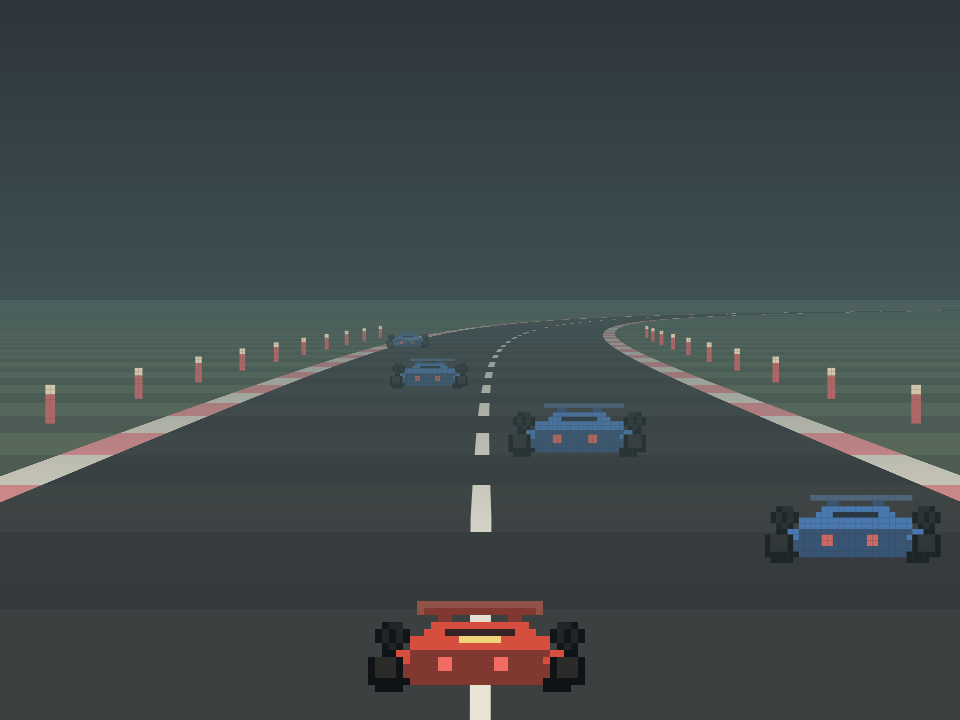
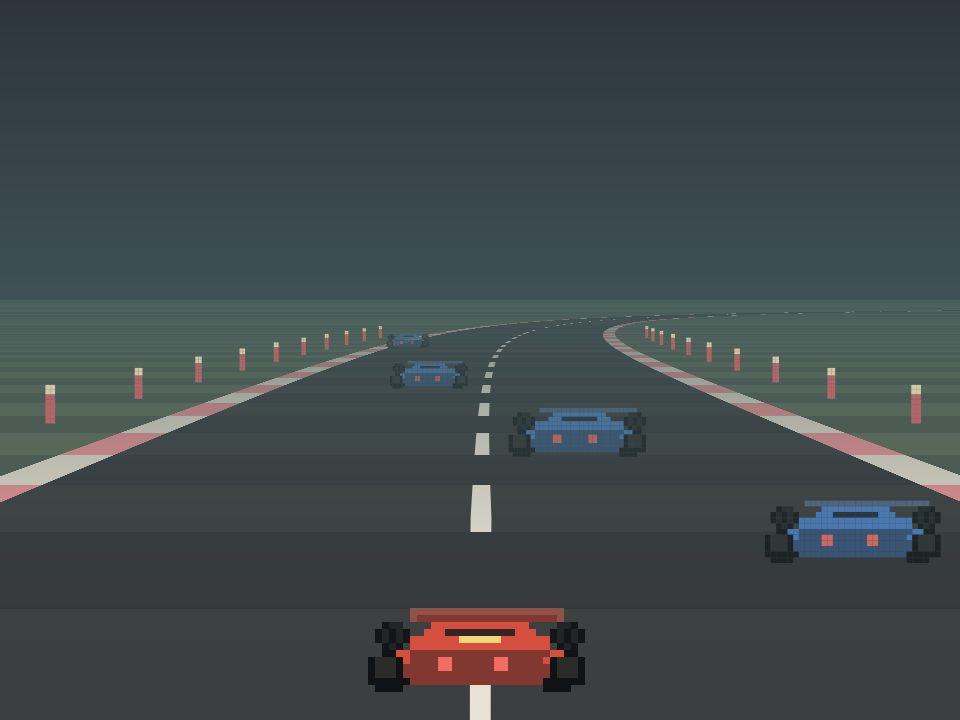
Racer: a sprite playground, and the wing finally reads right
The wing has now been wrong four times, and Brian's close-up of the
reference shows why every attempt failed the same way: in the original
there is NOTHING above the wing. It is the top edge of the sprite, and
the body rises to meet it. Every version I drew had body rows sitting
under a bar, which is the exact arrangement the eye reads as a roof —
whether the gap under it was four rows or one.

So the fix was not the gap size, it was what sits above. Removing the
rows above the wing is what turned a greenhouse into a rear wing.

Also adds tools/sprite-playground.html, Brian's idea and a good one: a
browser grid editor with the same palette letters art.rs uses, that emits
a paste-ready Rust block and can load one back. Pointing at a pixel beats
describing it — four rounds of "move the wing down" would have been one
round of moving it.

Open it directly, no server needed:
  xdg-open tools/sprite-playground.html

Claude-Session: https://claude.ai/code/session_01R6n3USUuEdve3pENT6DRo3

diff --git a/tools/sprite-playground.html b/tools/sprite-playground.html
@@ -1,0 +1,338 @@
+<title>Omarcade Sprite Playground</title>
+<style>
+  :root {
+    --bg: #1e2326; --panel: #272e33; --edge: #3a4248;
+    --fg: #d3c6aa; --muted: #859289; --accent: #83c092;
+    --warn: #e67e80;
+  }
+  * { box-sizing: border-box; }
+  body {
+    margin: 0; background: var(--bg); color: var(--fg);
+    font: 14px/1.5 ui-monospace, "SF Mono", Menlo, Consolas, monospace;
+  }
+  header {
+    padding: 14px 20px; border-bottom: 1px solid var(--edge);
+    display: flex; align-items: baseline; gap: 16px; flex-wrap: wrap;
+  }
+  h1 { font-size: 15px; margin: 0; font-weight: 600; letter-spacing: .04em; }
+  header p { margin: 0; color: var(--muted); font-size: 12px; }
+  main {
+    display: grid; grid-template-columns: minmax(0,1fr) 320px;
+    gap: 20px; padding: 20px; align-items: start;
+  }
+  @media (max-width: 900px) { main { grid-template-columns: 1fr; } }
+  .panel {
+    background: var(--panel); border: 1px solid var(--edge);
+    border-radius: 8px; padding: 16px;
+  }
+  .panel h2 {
+    font-size: 12px; margin: 0 0 12px; color: var(--muted);
+    text-transform: uppercase; letter-spacing: .08em; font-weight: 600;
+  }
+  #gridwrap { overflow: auto; }
+  canvas { image-rendering: pixelated; display: block; cursor: crosshair; }
+  #preview { background: #10141f; border-radius: 6px; margin-bottom: 4px; }
+  .swatches { display: flex; flex-wrap: wrap; gap: 6px; }
+  .sw {
+    display: flex; align-items: center; gap: 6px; padding: 5px 9px;
+    border: 1px solid var(--edge); border-radius: 5px; cursor: pointer;
+    background: #1e2326; font-size: 12px; color: var(--fg);
+  }
+  .sw:hover { border-color: var(--muted); }
+  .sw.on { border-color: var(--accent); background: #2d3b33; }
+  .chip {
+    width: 14px; height: 14px; border-radius: 3px;
+    border: 1px solid rgba(255,255,255,.15);
+  }
+  .row { display: flex; gap: 8px; flex-wrap: wrap; margin-top: 10px; }
+  button {
+    font: inherit; font-size: 12px; padding: 7px 12px; cursor: pointer;
+    background: #1e2326; color: var(--fg);
+    border: 1px solid var(--edge); border-radius: 5px;
+  }
+  button:hover { border-color: var(--accent); color: var(--accent); }
+  textarea {
+    width: 100%; min-height: 300px; background: #10141f; color: var(--fg);
+    border: 1px solid var(--edge); border-radius: 6px; padding: 10px;
+    font: 12px/1.35 ui-monospace, Menlo, Consolas, monospace;
+    white-space: pre; overflow-wrap: normal; overflow-x: auto; resize: vertical;
+  }
+  .hint { color: var(--muted); font-size: 12px; margin: 8px 0 0; }
+  .warn { color: var(--warn); }
+  kbd {
+    background: #1e2326; border: 1px solid var(--edge); border-bottom-width: 2px;
+    border-radius: 4px; padding: 1px 5px; font-size: 11px;
+  }
+</style>
+
+<header>
+  <h1>Omarcade Sprite Playground</h1>
+  <p>Paint pixels &rarr; copy the Rust back into <code>art.rs</code>. Drag to draw, right-click erases.</p>
+</header>
+
+<main>
+  <div class="panel">
+    <h2>Canvas</h2>
+    <div id="gridwrap"><canvas id="grid"></canvas></div>
+    <p class="hint">
+      <kbd>drag</kbd> paint &nbsp; <kbd>right-drag</kbd> erase &nbsp;
+      <kbd>alt+click</kbd> pick colour &nbsp; <kbd>ctrl+z</kbd> undo
+    </p>
+  </div>
+
+  <div>
+    <div class="panel">
+      <h2>Preview</h2>
+      <canvas id="preview" width="288" height="180"></canvas>
+      <p class="hint">Actual size, 2x, 4x &mdash; how it reads at distance.</p>
+    </div>
+
+    <div class="panel" style="margin-top:16px">
+      <h2>Palette</h2>
+      <div class="swatches" id="swatches"></div>
+      <p class="hint">Same letters <code>art.rs</code> uses.</p>
+    </div>
+
+    <div class="panel" style="margin-top:16px">
+      <h2>Tools</h2>
+      <div class="row">
+        <button id="mirror">Mirror L&rarr;R</button>
+        <button id="clear">Clear</button>
+        <button id="undo">Undo</button>
+      </div>
+      <div class="row">
+        <button id="up">Shift up</button>
+        <button id="down">Shift down</button>
+      </div>
+    </div>
+  </div>
+</main>
+
+<div class="panel" style="margin:0 20px 20px">
+  <h2>Rust &mdash; paste into art.rs</h2>
+  <textarea id="out" spellcheck="false"></textarea>
+  <div class="row">
+    <button id="copy">Copy</button>
+    <button id="load">Load from textarea</button>
+    <span class="hint" id="status"></span>
+  </div>
+  <p class="hint">
+    Paste an existing <code>&amp;[&amp;str]</code> block and hit <b>Load</b> to edit it,
+    or copy this back into <code>art.rs</code> when you like what you see.
+  </p>
+</div>
+
+<script>
+// The palette mirrors car_palette() in art.rs. Colours here are the
+// resolved Everforest values so the playground shows what the game shows.
+const PALETTE = [
+  ['.', 'transparent',  'erase'],
+  ['B', '#d64e3e',      'body'],
+  ['D', '#8a3a30',      'shadow'],
+  ['A', '#f0d678',      'accent'],
+  ['G', '#241c1c',      'cockpit'],
+  ['T', '#16191c',      'tyre'],
+  ['H', '#2b3136',      'tyre top'],
+  ['t', '#12151a',      'front tyre'],
+  ['h', '#1e2429',      'front top'],
+  ['L', '#ff5a46',      'brake light'],
+  ['W', '#a05348',      'wing'],
+];
+
+const COLS = 32, ROWS = 20, CELL = 22;
+let grid = Array.from({length: ROWS}, () => Array(COLS).fill('.'));
+let cur = 'B';
+let painting = false, erasing = false;
+const undoStack = [];
+
+const cv = document.getElementById('grid');
+const ctx = cv.getContext('2d');
+cv.width = COLS * CELL; cv.height = ROWS * CELL;
+
+const pv = document.getElementById('preview');
+const pctx = pv.getContext('2d');
+
+function colorOf(ch) {
+  const e = PALETTE.find(p => p[0] === ch);
+  return e ? e[1] : 'transparent';
+}
+
+function draw() {
+  ctx.clearRect(0, 0, cv.width, cv.height);
+  for (let y = 0; y < ROWS; y++) {
+    for (let x = 0; x < COLS; x++) {
+      const ch = grid[y][x];
+      // Checkerboard under transparent cells so the shape is readable.
+      if (ch === '.') {
+        ctx.fillStyle = ((x + y) % 2) ? '#20262a' : '#242b2f';
+        ctx.fillRect(x*CELL, y*CELL, CELL, CELL);
+      } else {
+        ctx.fillStyle = colorOf(ch);
+        ctx.fillRect(x*CELL, y*CELL, CELL, CELL);
+      }
+      ctx.strokeStyle = 'rgba(255,255,255,.045)';
+      ctx.strokeRect(x*CELL + .5, y*CELL + .5, CELL - 1, CELL - 1);
+    }
+  }
+  // Centre line — symmetry is most of what makes a vehicle read right.
+  ctx.strokeStyle = 'rgba(131,192,146,.35)';
+  ctx.beginPath();
+  ctx.moveTo(COLS/2 * CELL, 0); ctx.lineTo(COLS/2 * CELL, cv.height);
+  ctx.stroke();
+  drawPreview();
+  emit();
+}
+
+function drawPreview() {
+  pctx.clearRect(0, 0, pv.width, pv.height);
+  let ox = 8;
+  for (const s of [1, 2, 4]) {
+    for (let y = 0; y < ROWS; y++) {
+      for (let x = 0; x < COLS; x++) {
+        const ch = grid[y][x];
+        if (ch === '.') continue;
+        pctx.fillStyle = colorOf(ch);
+        pctx.fillRect(ox + x*s, 20 + y*s, s, s);
+      }
+    }
+    ox += COLS * s + 12;
+  }
+}
+
+function pushUndo() {
+  undoStack.push(grid.map(r => r.slice()));
+  if (undoStack.length > 100) undoStack.shift();
+}
+
+function cellAt(ev) {
+  const r = cv.getBoundingClientRect();
+  const x = Math.floor((ev.clientX - r.left) / (r.width / COLS));
+  const y = Math.floor((ev.clientY - r.top) / (r.height / ROWS));
+  return (x >= 0 && x < COLS && y >= 0 && y < ROWS) ? [x, y] : null;
+}
+
+function paint(ev) {
+  const c = cellAt(ev); if (!c) return;
+  const [x, y] = c;
+  const ch = erasing ? '.' : cur;
+  if (grid[y][x] === ch) return;
+  grid[y][x] = ch;
+  draw();
+}
+
+cv.addEventListener('contextmenu', e => e.preventDefault());
+cv.addEventListener('pointerdown', e => {
+  const c = cellAt(e); if (!c) return;
+  if (e.altKey) {                       // pick
+    const ch = grid[c[1]][c[0]];
+    if (ch !== '.') { cur = ch; renderSwatches(); }
+    return;
+  }
+  pushUndo();
+  painting = true; erasing = (e.button === 2);
+  cv.setPointerCapture(e.pointerId);
+  paint(e);
+});
+cv.addEventListener('pointermove', e => { if (painting) paint(e); });
+cv.addEventListener('pointerup', () => { painting = false; });
+
+function renderSwatches() {
+  const el = document.getElementById('swatches');
+  el.innerHTML = '';
+  for (const [ch, col, name] of PALETTE) {
+    const b = document.createElement('button');
+    b.className = 'sw' + (ch === cur ? ' on' : '');
+    b.innerHTML = `<span class="chip" style="background:${col === 'transparent' ? 'repeating-conic-gradient(#333 0 25%, #222 0 50%) 50%/8px 8px' : col}"></span>
+                   <b>${ch === '.' ? '·' : ch}</b> ${name}`;
+    b.onclick = () => { cur = ch; renderSwatches(); };
+    el.appendChild(b);
+  }
+}
+
+function emit() {
+  const body = grid.map(r => `    "${r.join('')}",`).join('\n');
+  document.getElementById('out').value =
+    `pub const PLAYER_CAR: &[&str] = &[\n${body}\n];`;
+}
+
+document.getElementById('copy').onclick = async () => {
+  await navigator.clipboard.writeText(document.getElementById('out').value);
+  const s = document.getElementById('status');
+  s.textContent = 'copied'; setTimeout(() => s.textContent = '', 1400);
+};
+
+document.getElementById('load').onclick = () => {
+  const text = document.getElementById('out').value;
+  const rows = [...text.matchAll(/"([^"]*)"/g)].map(m => m[1]);
+  const status = document.getElementById('status');
+  if (!rows.length) { status.innerHTML = '<span class="warn">no quoted rows found</span>'; return; }
+  const bad = rows.find(r => r.length !== COLS);
+  if (bad !== undefined) {
+    status.innerHTML = `<span class="warn">a row is ${bad.length} chars, need ${COLS}</span>`;
+    return;
+  }
+  pushUndo();
+  grid = Array.from({length: ROWS}, (_, y) =>
+    (rows[y] || '.'.repeat(COLS)).split(''));
+  status.textContent = `loaded ${rows.length} rows`;
+  draw();
+};
+
+document.getElementById('mirror').onclick = () => {
+  pushUndo();
+  // Left half wins, mirrored onto the right. Symmetry by construction.
+  for (let y = 0; y < ROWS; y++)
+    for (let x = 0; x < COLS/2; x++)
+      grid[y][COLS-1-x] = grid[y][x];
+  draw();
+};
+document.getElementById('clear').onclick = () => {
+  pushUndo();
+  grid = Array.from({length: ROWS}, () => Array(COLS).fill('.'));
+  draw();
+};
+document.getElementById('undo').onclick = doUndo;
+function doUndo() {
+  if (!undoStack.length) return;
+  grid = undoStack.pop(); draw();
+}
+document.getElementById('up').onclick = () => {
+  pushUndo();
+  grid.shift(); grid.push(Array(COLS).fill('.')); draw();
+};
+document.getElementById('down').onclick = () => {
+  pushUndo();
+  grid.pop(); grid.unshift(Array(COLS).fill('.')); draw();
+};
+
+addEventListener('keydown', e => {
+  if ((e.ctrlKey || e.metaKey) && e.key === 'z') { e.preventDefault(); doUndo(); }
+});
+
+// Seed with the car as it stands in art.rs today.
+grid = [
+  "................................",
+  "................................",
+  "................................",
+  "................................",
+  "................................",
+  ".......WWWWWWWWWWWWWWWWWW.......",
+  ".......WDDDDDDDDDDDDDDDDW.......",
+  "..........DD........DD..........",
+  "..thh....BBBBBBBBBBBBBB....hht..",
+  ".ththt..BBBGGGGGGGGGGBBB..ththt.",
+  ".ththtBBBBBBBAAAAAABBBBBBBththt.",
+  "..tht.BBBBBBBBBBBBBBBBBBBB.tht..",
+  "..TTBBDDDDDDDDDDDDDDDDDDDDBBTT..",
+  "THHHTBDDDDLLDDDDDDLLDDDDDBTHHHT.",
+  "THHHTDDDDDLLDDDDDDLLDDDDDDTHHHT.",
+  "THHHTDDDDDDDDDDDDDDDDDDDDDTHHHT.",
+  "TTTTTTDDDDDDDDDDDDDDDDDDDTTTTTT.",
+  ".TTTT....................TTTT...",
+  "................................",
+  "................................",
+].map(r => r.split(''));
+
+renderSwatches();
+draw();
+</script>

diff --git a/games/omarcade-racer/src/art.rs b/games/omarcade-racer/src/art.rs
@@ -39,9 +39,9 @@ pub const PLAYER_CAR: &[&str] = &[
     "................................",
     "................................",
     "................................",
-    ".......WWWWWWWWWWWWWWWWWW.......",
-    ".......WDDDDDDDDDDDDDDDDW.......",
-    "..........DD........DD..........",
+    "................................",
+    "......WWWWWWWWWWWWWWWWWWWWWW....",
+    "......WDDDDDDDDDDDDDDDDDDDDW....",
     "..thh....BBBBBBBBBBBBBB....hht..",
     ".ththt..BBBGGGGGGGGGGBBB..ththt.",
     ".ththtBBBBBBBAAAAAABBBBBBBththt.",
@@ -67,8 +67,8 @@ pub const RIVAL_CAR: &[&str] = &[
     "................................",
     "................................",
     "................................",
-    "........WWWWWWWWWWWWWWWWWW......",
-    "...........DD......DD...........",
+    "................................",
+    ".......WWWWWWWWWWWWWWWWWWWWWW...",
     "..thh.....BBBBBBBBBBBB.....hht..",
     ".ththt...BBBGGGGGGGGBBB...ththt.",
     ".ththtBBBBBBBBBBBBBBBBBBBBththt.",
